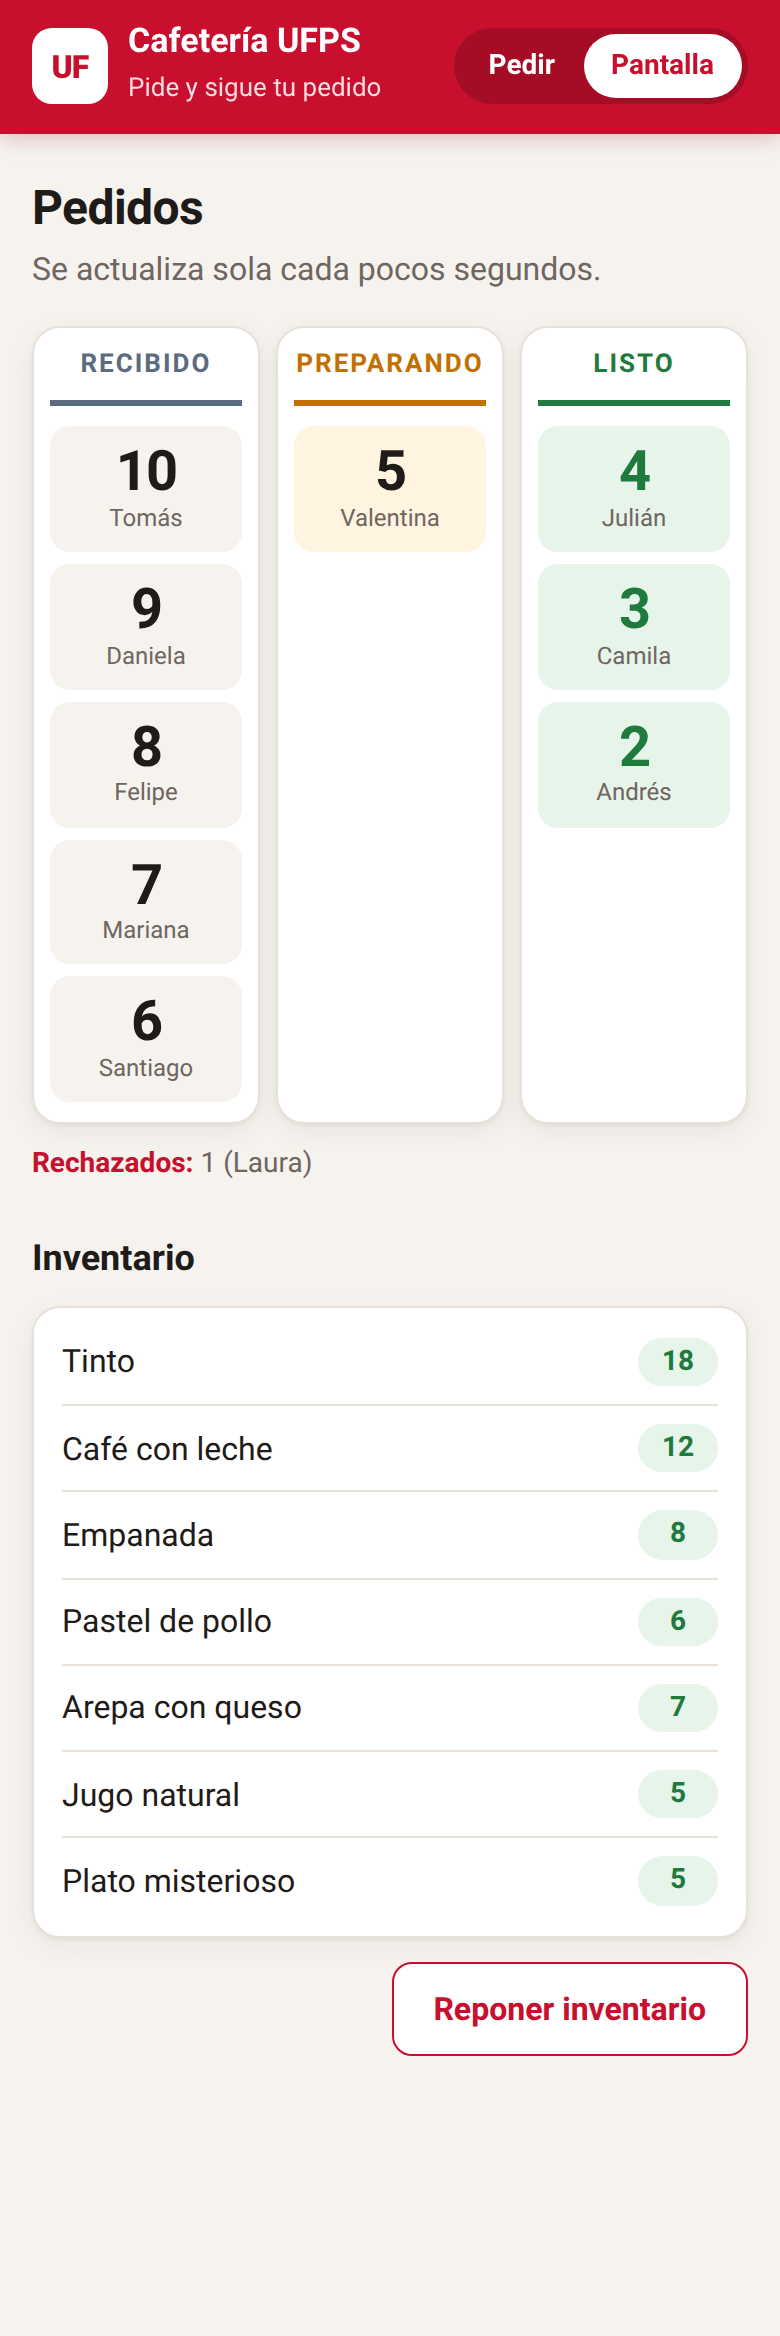
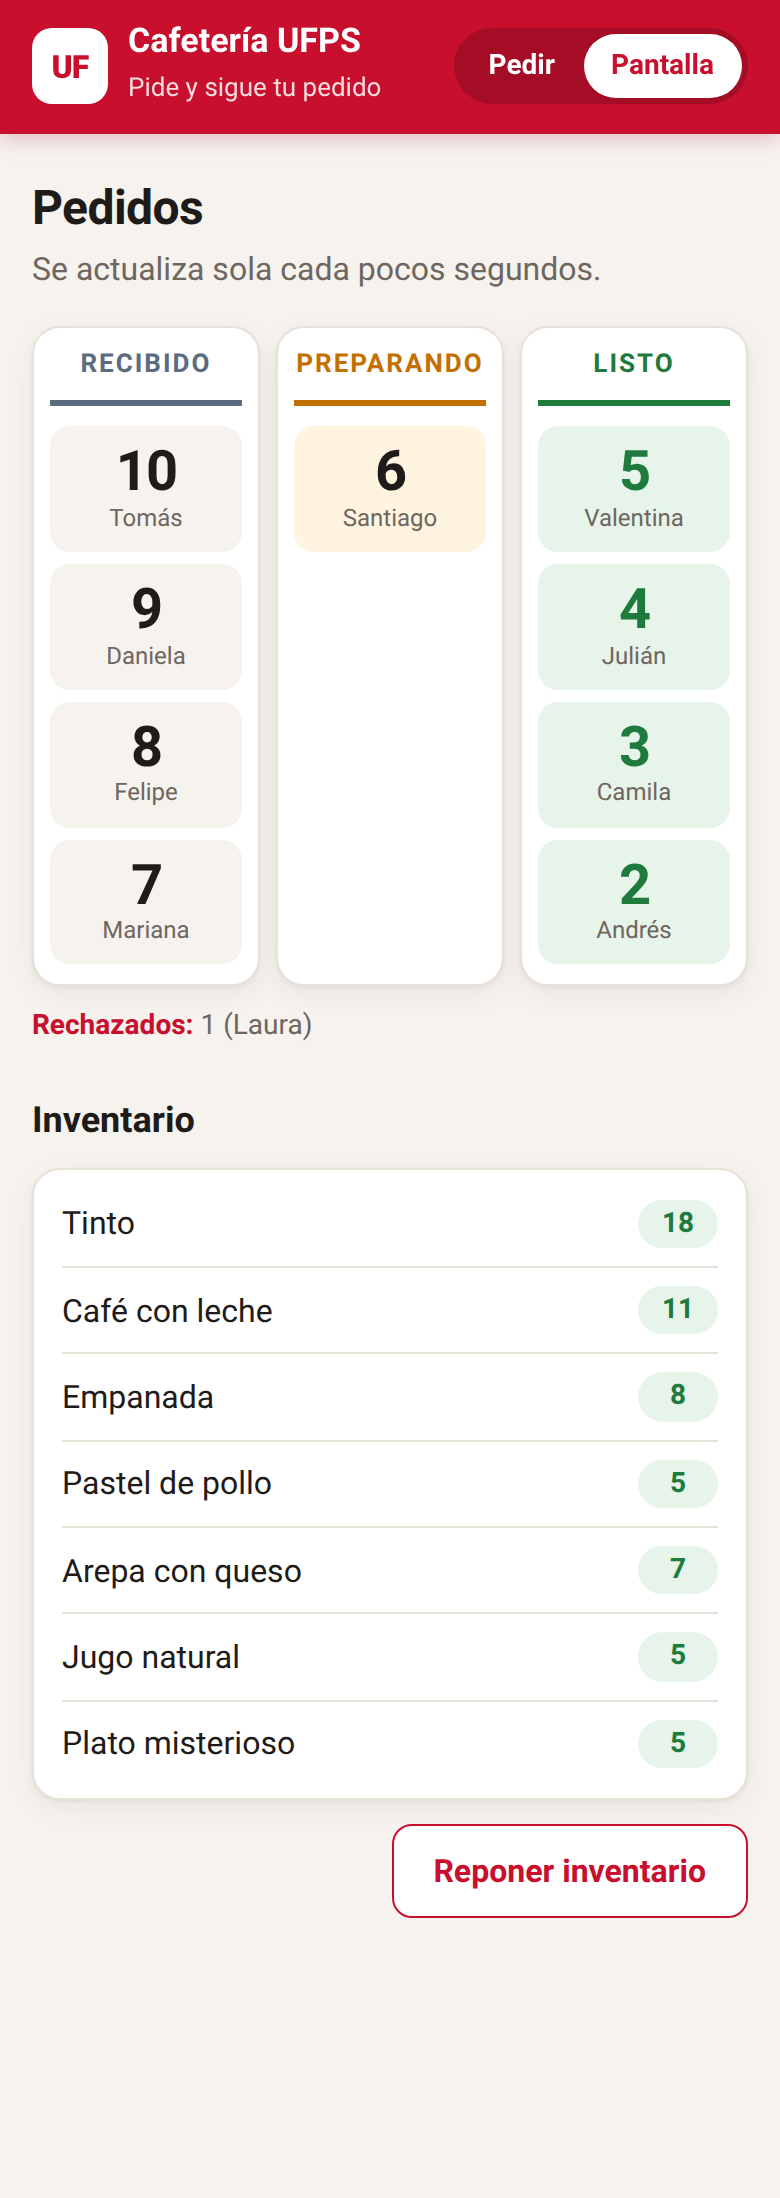
Número de pedido sin transacción, refresco pausado y diagrama con permisos
- El backend obtiene el número con un incremento atómico en vez de una
  transacción: con 30 pedidos simultáneos la transacción dejaba 29 en 500.
- La página no se refresca con la pestaña oculta y refresca cada 5 s, para
  no gastar la cuota de lecturas de Firestore.
- El diagrama del README muestra el agente de Pub/Sub y los permisos.
- Aviso sobre los 7 días de reintentos del plato misterioso.

Changed region(s): [[0.0, 0.0, 1.0, 0.8662], [0.2769, 0.4331, 0.6154, 0.5259]]

diff --git a/frontend/index.html b/frontend/index.html
@@ -456,9 +456,11 @@
     refrescar();
   }
 
+  // Cada refresco de la pantalla son unas 27 lecturas de Firestore, y las
+  // lecturas tienen cuota diaria. Una pestaña oculta no necesita refrescarse.
   let ocupado = false;
   async function refrescar() {
-    if (ocupado) return;
+    if (document.hidden || ocupado) return;
     ocupado = true;
     try {
       if (vistaActual() === "pantalla") {
@@ -495,8 +497,9 @@
   $("#otro").addEventListener("click", () => seguir(null));
   $("#reponer").addEventListener("click", reponer);
   window.addEventListener("hashchange", mostrarVista);
+  document.addEventListener("visibilitychange", () => { if (!document.hidden) refrescar(); });
   mostrarVista();
-  setInterval(refrescar, 3000);
+  setInterval(refrescar, 5000);
 </script>
 </body>
 </html>

diff --git a/backend/main.py b/backend/main.py
@@ -122,15 +122,15 @@ def validar(cuerpo):
     return cliente, limpios
 
 
-# El número y el pedido se escriben en la misma transacción: si dos pedidos
-# llegan a la vez, Firestore reintenta uno de ellos y nunca repite un número.
-@firestore.transactional
-def guardar(transaccion, contador, pedido_ref, datos):
-    actual = contador.get(transaction=transaccion)
-    numero = (actual.get("valor") if actual.exists else 0) + 1
-    transaccion.set(contador, {"valor": numero})
-    transaccion.set(pedido_ref, {**datos, "numero": numero})
-    return numero
+# El número sale de un incremento atómico que resuelve el servidor, sin
+# bloquear el contador. Con una transacción, muchos pedidos a la vez peleaban
+# por el mismo documento y la mayoría fallaba. Si algo falla entre el
+# incremento y el guardado, se salta un número, que no le hace daño a nadie.
+def siguiente_numero():
+    resultado = db().collection("contadores").document("pedidos").set(
+        {"valor": firestore.Increment(1)}, merge=True
+    )
+    return resultado.transform_results[0].integer_value
 
 
 def publicar(pedido_id):
@@ -178,9 +178,9 @@ def crear_pedido():
         "creado": momento,
         "actualizado": momento,
     }
+    numero = siguiente_numero()
     pedido_ref = db().collection("pedidos").document()
-    contador = db().collection("contadores").document("pedidos")
-    numero = guardar(db().transaction(), contador, pedido_ref, datos)
+    pedido_ref.set({**datos, "numero": numero})
 
     publicar(pedido_ref.id)
     return jsonify(como_json(pedido_ref.id, {**datos, "numero": numero})), 201

diff --git a/README.md b/README.md
@@ -22,14 +22,15 @@ flowchart LR
         frontend["frontend<br/>Cloud Run, público"]
         backend["backend<br/>Cloud Run, público"]
         firestore[("Firestore<br/>pedidos e inventario")]
-        registro["Artifact Registry"]
+        registro["Artifact Registry<br/>imágenes de los servicios"]
     end
 
     subgraph grupo["Lo construye tu grupo"]
         tema{{"Tema de Pub/Sub"}}
         suscripcion["Suscripción push<br/>con token OIDC"]
         cocina["cocina<br/>Cloud Run, privado"]
-        invocador["Cuenta invocadora<br/>roles/run.invoker"]
+        invocador["Cuenta invocadora"]
+        agente["Agente de servicio<br/>de Pub/Sub<br/>service-NÚMERO@<br/>gcp-sa-pubsub.iam.<br/>gserviceaccount.com"]
     end
 
     telefono -->|"carga la página"| frontend
@@ -38,12 +39,15 @@ flowchart LR
     backend -->|"publica el id"| tema
     tema --> suscripcion
     suscripcion -->|"POST / con token"| cocina
-    invocador -.->|"identidad del token"| suscripcion
+    suscripcion -->|"token a nombre de"| invocador
     cocina -->|"cambia el estado y descuenta"| firestore
-    registro -.->|"imágenes"| frontend
-    registro -.-> backend
-    registro -.-> cocina
+
+    backend -.->|"pubsub.publisher"| tema
+    agente -.->|"iam.serviceAccountTokenCreator"| invocador
+    invocador -.->|"run.invoker"| cocina
 ```
+
+Las flechas punteadas son los permisos de IAM que da tu grupo. La etiqueta es el rol sin el prefijo `roles/` y la flecha llega al recurso sobre el que se da: el backend puede publicar solo en ese tema, el agente de Pub/Sub puede firmar tokens como la cuenta invocadora y esa cuenta puede invocar solo a la cocina.
 
 En la plantilla, el backend ya sabe publicar, pero la variable `TEMA` está vacía: guarda el pedido, registra una advertencia y no avisa a nadie. Por eso, recién desplegada, la cafetería recibe pedidos que se quedan en `recibido` para siempre.
 
@@ -176,6 +180,8 @@ docker logs cocina
 Responde `204` cuando termina, unos segundos después. Mira el pedido en la pantalla de la cafetería: acabas de hacer a mano lo que Pub/Sub va a hacer solo.
 
 La cocina tiene dos variables para provocar fallas: `TIEMPO_PREPARACION` (segundos que tarda, 6 por defecto) y `PROBABILIDAD_FALLO` (entre 0 y 1; con esa probabilidad responde `500` después de haber terminado el trabajo). Los detalles están en [docs/api.md](docs/api.md) y el recorrido de un pedido en [docs/estados.md](docs/estados.md).
+
+El plato misterioso falla siempre, y sin un tema de mensajes muertos Pub/Sub lo sigue reintentando mientras retenga el mensaje, que por defecto son 7 días. Cada intento deja un error en los logs de la cocina, así que se van a llenar hasta que tu grupo resuelva esa parte del reto.
 
 ---
 

diff --git a/docs/estados.md b/docs/estados.md
@@ -24,5 +24,5 @@ El frontend no cambia ningún estado. Solo consulta `GET /pedidos/<id>` y `GET /
 ## Qué ves cuando algo no está conectado
 
 - **El pedido se queda en `recibido`.** El mensaje no le llega a la cocina: `TEMA` está vacía, no hay suscripción, o Pub/Sub no logra invocar a la cocina. Mira los logs del backend y de la cocina, y las métricas de la suscripción.
-- **El pedido se queda en `preparando`.** La cocina recibió el mensaje pero falló antes de terminar. Es lo que pasa siempre con el plato misterioso: Pub/Sub lo reintenta y en los logs de la cocina aparece el error en cada intento.
+- **El pedido se queda en `preparando`.** La cocina recibió el mensaje pero falló antes de terminar. Es lo que pasa siempre con el plato misterioso: Pub/Sub lo reintenta y en los logs de la cocina aparece el error en cada intento. Sin un tema de mensajes muertos, esos reintentos siguen mientras Pub/Sub retenga el mensaje, que por defecto son 7 días, y llenan los logs de la cocina hasta que tu grupo resuelva esa parte del reto.
 - **El inventario baja más de la cuenta.** El mismo mensaje llegó a la cocina más de una vez. Pub/Sub entrega cada mensaje *al menos* una vez, y con `PROBABILIDAD_FALLO` mayor que cero puedes provocarlo a propósito. El pedido vuelve a pasar por `preparando` y en los logs de la cocina aparece procesado varias veces.
